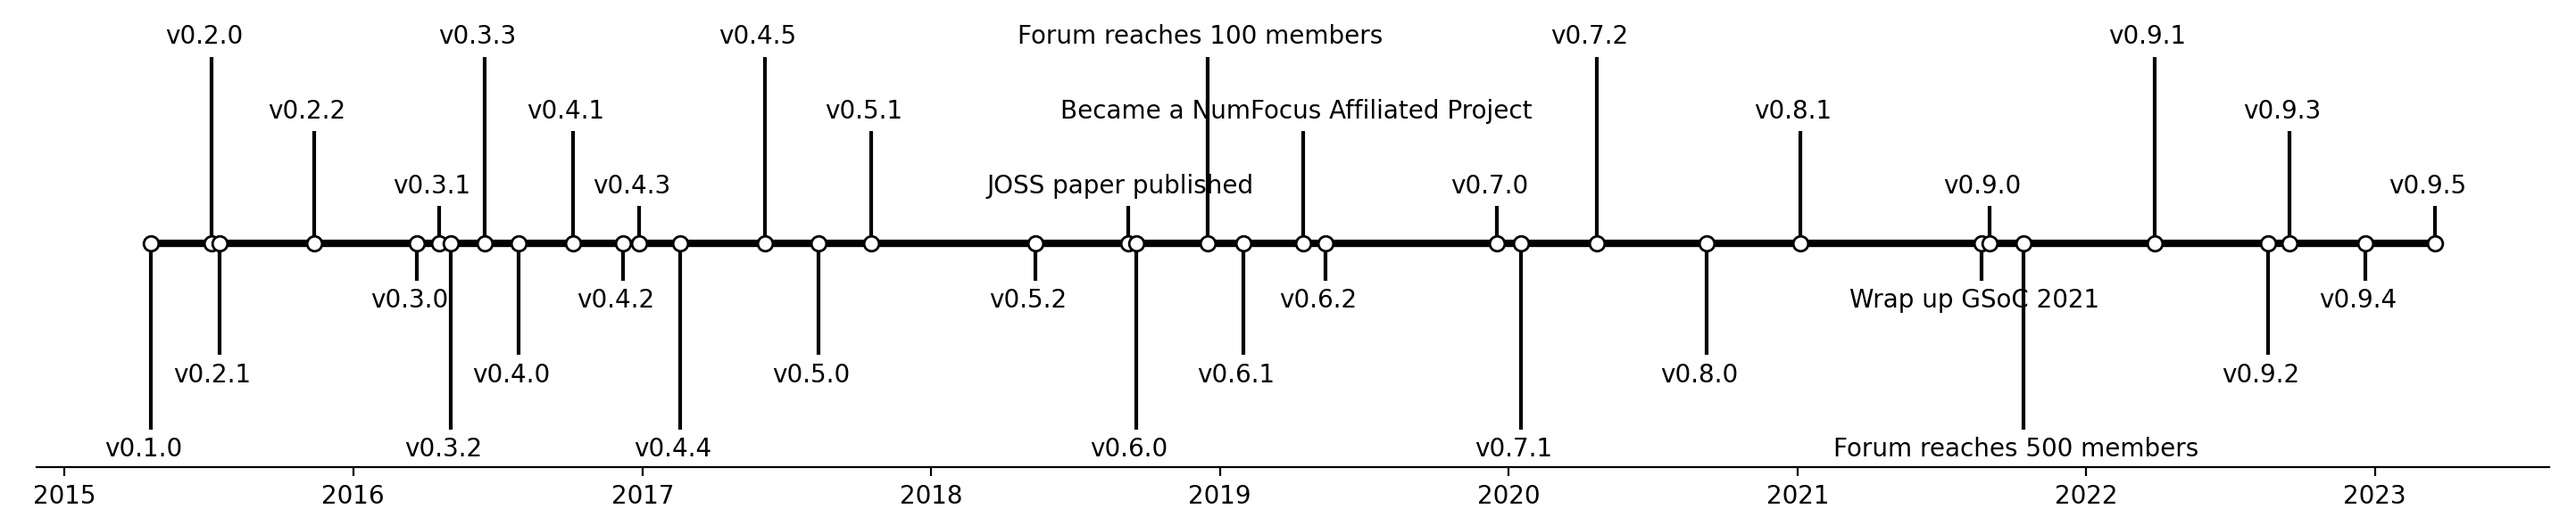
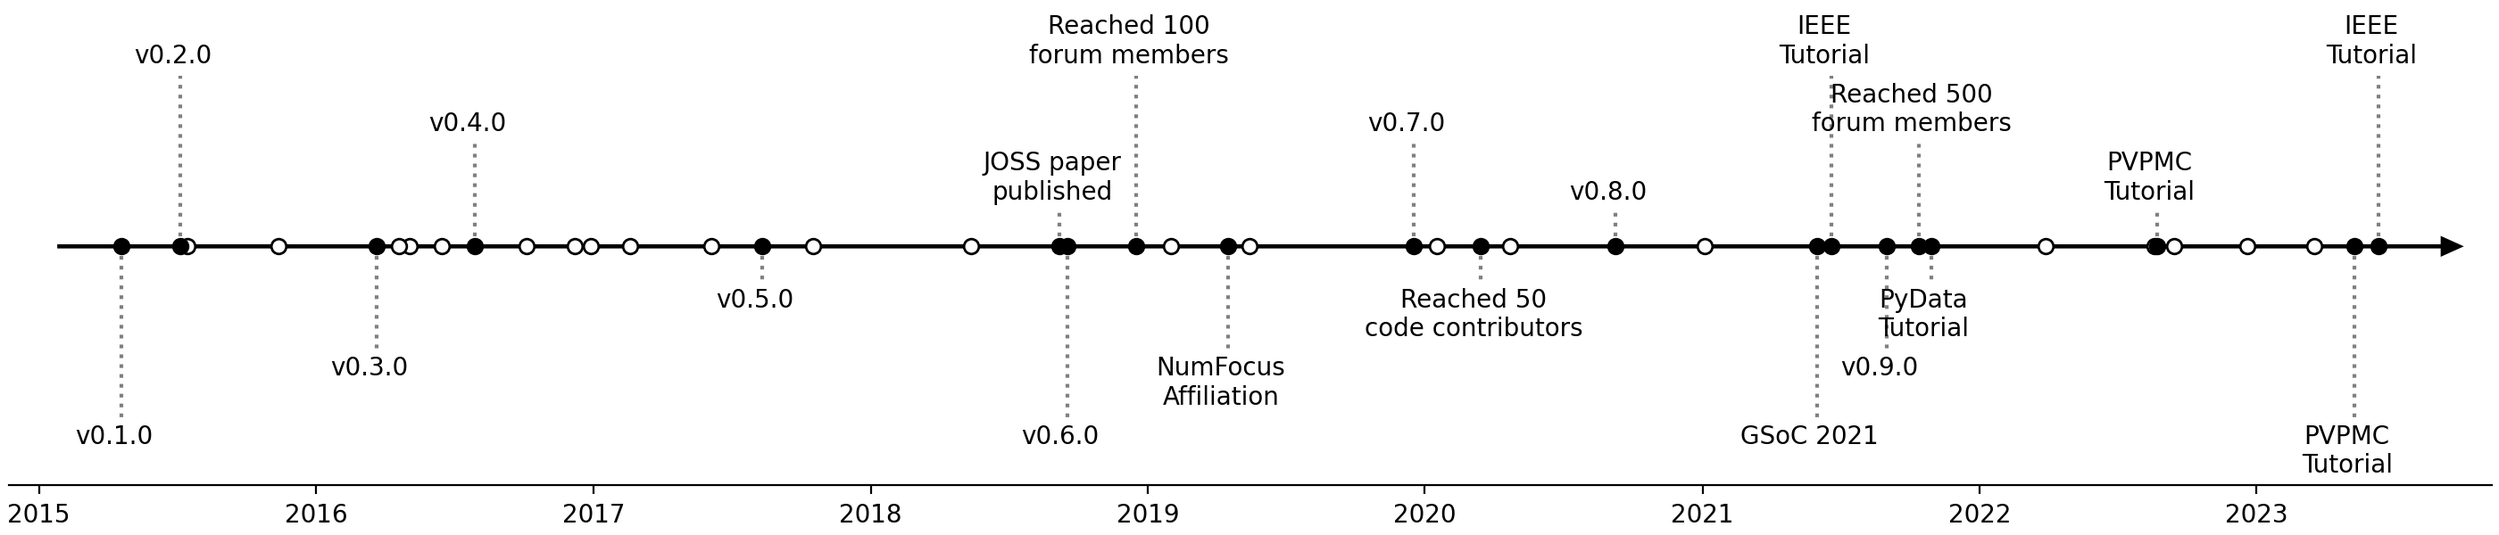
miscellaneous improvements

diff --git a/paper/2023/paper.md b/paper/2023/paper.md
@@ -40,16 +40,16 @@ bibliography: paper.bib
 
 # Summary
 
-pvlib python is a community-supported, open-source software toolbox
+pvlib python is a community-developed, open-source software toolbox
 for simulating the performance of solar photovoltaic (PV) energy
-systems.  It provides implementations of over 100 empirical and
-physics-based models from the photovoltaic modeling scientific literature,
+systems.  It provides peer-reviewed reference implementations of
+over 100 empirical and physics-based models from the scientific literature,
 including solar position algorithms, irradiance models, thermal models,
 and PV electrical models.  In addition to these individual low-level
 model implementations, pvlib python provides high-level constructs
 that chain these models together like building blocks to form complete
 "weather-to-power" phovoltaic system models.  It also provides functions to fetch
-and import datasets useful for PV modeling.  Unlike other
+and import weather datasets useful for PV modeling.  Unlike other
 popular software for PV modeling, pvlib python integrates natively
 with the rest of the Python ecosystem, making it easy to combine with
 packages for numerical optimization, plotting, and data manipulation,
@@ -61,15 +61,23 @@ testing, standards-based packaging, and semantic versioning.
 \autoref{fig:timeline} shows a timeline of important events in
 the project's history.
 
-![pvlib python major event timeline.\label{fig:timeline}](timeline.png)
+![pvlib python major event timeline.\label{fig:timeline}](timeline2.png)
 
-Here we present an update describing capability enhancements and community
-growth since our 2018 publication [@pvlibjoss2018].
+Python is proving to be the most common choice of programming language
+for open-source PV modeling and analysis software, with pvlib python
+being one member of a growing ecosystem [@Holmgren2018].  Within this
+broader Python-for-PV ecosystem are two packages in the pvlib "family":
+pvanalytics, a package for PV data quality assurance and feature recognition
+algorithms [@pvpmc2022_pvanalytics_update], and twoaxistracking, a package
+for simulating self-shading in arrays with two-axis solar trackers [@Jensen2022].
+
+Here we present an update on pvlib python, describing capability enhancements
+and community growth since our 2018 publication [@pvlibjoss2018].
 
 # Statement of need
 
 Simulation tools are used throughout the field of solar phovoltaics.
-As photovoltaic technologies and economics become increasingly diverse and
+As photovoltaic technologies and systems become increasingly diverse and
 sophisticated, and as the solar energy industry rapidly grows,
 so do the demands placed on these simulation tools.  Flexibility, scalability,
 and transparency are key requirements to meet this demand.  Regarding
@@ -95,38 +103,45 @@ in the past year.
 
 # Functionality additions from v0.6.0 to v0.9.5
 
-Substantial new functionality has been added in the roughly five years
-since the 2018 JOSS publication.  First, several dozen new models have been
+To meet new needs of the PV industry, substantial new functionality has been
+added in the roughly five years since the 2018 JOSS publication.
+
+First, several dozen new models have been
 implemented, expanding the package's capability in both existing and new
 modeling areas and prompting the creation of several
-new modules within pvlib python.  Notable additions include models for rear-side
-irradiance for bifacial PV systems, models for loss mechanisms like soiling
-and snow coverage, and methods of fitting PV performance models to measurements.
+new modules within pvlib python.
+Notable additions include models for loss mechanisms like soiling and snow
+coverage, and methods of fitting PV performance models to measurements.
+Also, to meet the demand for modeling bifacial PV which has become
+a mainstream in recent years, new models have been added to pvlib to
+model rear-side irradiance.
 \autoref{fig:functions-comparison} summarizes the number of models per module
 for pvlib python versions 0.6.0 and 0.9.5.
 
 ![Comparison of public function counts by pvlib module for v0.6.0 and v0.9.5.  Some modules are smaller in v0.9.5 due to moving functions to new modules (e.g. moving functions from `pvsystem` to `iam`, and from `tmy` to `iotools`).\label{fig:functions-comparison}](functions_06_010.png)
 
 Second, in addition to the new function-level model implementations,
-the package's high-level classes have also been expanded to be able to
-simulate more complex system designs, including systems with different
+the package's high-level classes have also been expanded to handle the complexity
+of emerging system designs, including systems with different
 mounting or electrical parameters between subsystems and systems that require
 custom orientation/steering models.
 
 Third, the creation of `pvlib.iotools`, a sub-package for fetching and parsing
-datasets relevant to PV modeling.  These functions provide a uniform interface
-for reading data files in various formats and from various sources.  Additionally,
-they offer conveniences like optionally standardizing the dataset labels and units
+datasets relevant to PV modeling.  These functions provide a standardized
+interface for reading data files in various complex data formats, offering
+conveniences like optionally standardizing the dataset labels and units
 to pvlib conventions.  As of version 0.9.5, `pvlib.iotools` contains
 functions to download data from half a dozen weather dataset providers,
 plus file reading/parsing functions for twice that number of solar resource file formats.
 
-These additions are discussed in more detail in [@pvpmc_2023_update] and [@pvpmc_2022_update].
+These additions are discussed in more detail in [@pvpmc_2023_update] and [@pvpmc2022_pvlib_update].
 Complete descriptions of the changes in each release can be found in the
 project's documentation.
 
 
 # Community
+
+TODO: merged PRs by version
 
 pvlib python's codebase contains contributions from over 100 people, spanning
 industry, academia, and government research institutions.
@@ -149,8 +164,12 @@ illustrates healthy community development:
 Finally, we highlight the pvlib tutorial sessions and users group meetings
 run by both pvlib python maintainers and broader community members in recent
 years.  To date, these meetings have been held at the IEEE Photovoltaics Specialists
-Conference (PVSC), the PV Performance Modeling Workshops, and PyData Global.
+Conference (PVSC), the PVPMC Workshops, and PyData Global.
 
+
+# Commercial adoption
+
+TODO
 
 # Acknowledgements
 
@@ -165,13 +184,8 @@ sources, including:
 
 pvlib python benefits enormously from building on top of
 various high-quality packages that have become de facto standards in the python
-ecosystem.  Here is an incomplete list of such packages used in pvlib python:
-
-- Numerics: numpy, pandas, scipy, numba
-- Plotting: matplotlib
-- Documentation: sphinx
-- Testing: pytest
-
+ecosystem: numpy, pandas, scipy, numba (numerics), matplotlib (plotting),
+sphinx (documentation), and pytest (automated testing).
 The project also benefits from online infrastructure generously provided free
 of charge, including GitHub (code development and automated testing) and
 ReadTheDocs.org (documentation building and hosting).
